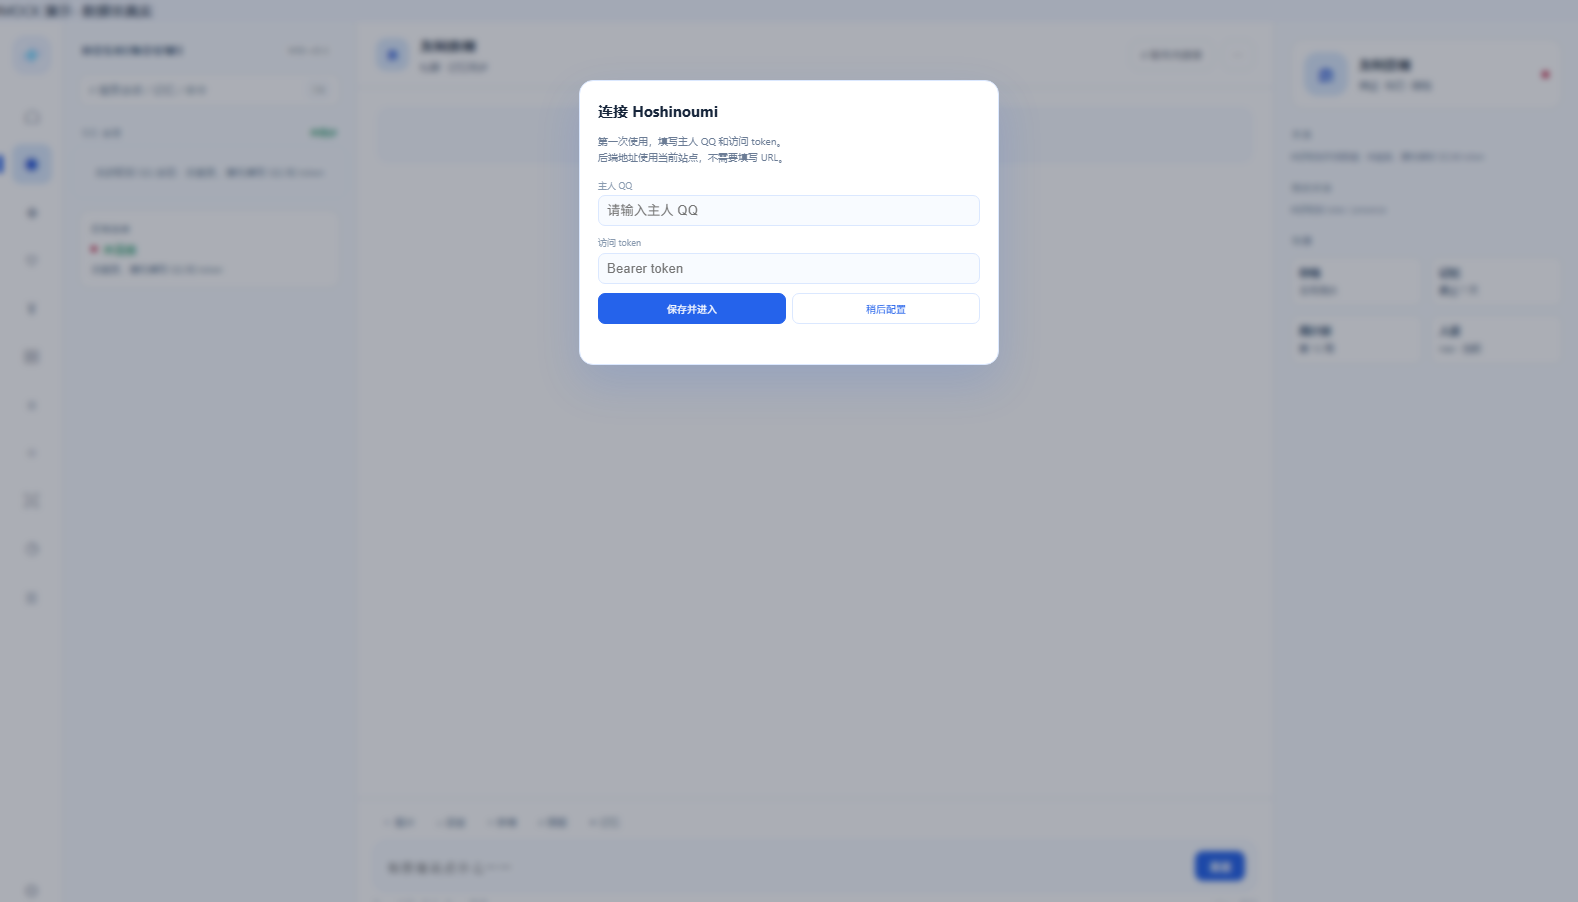
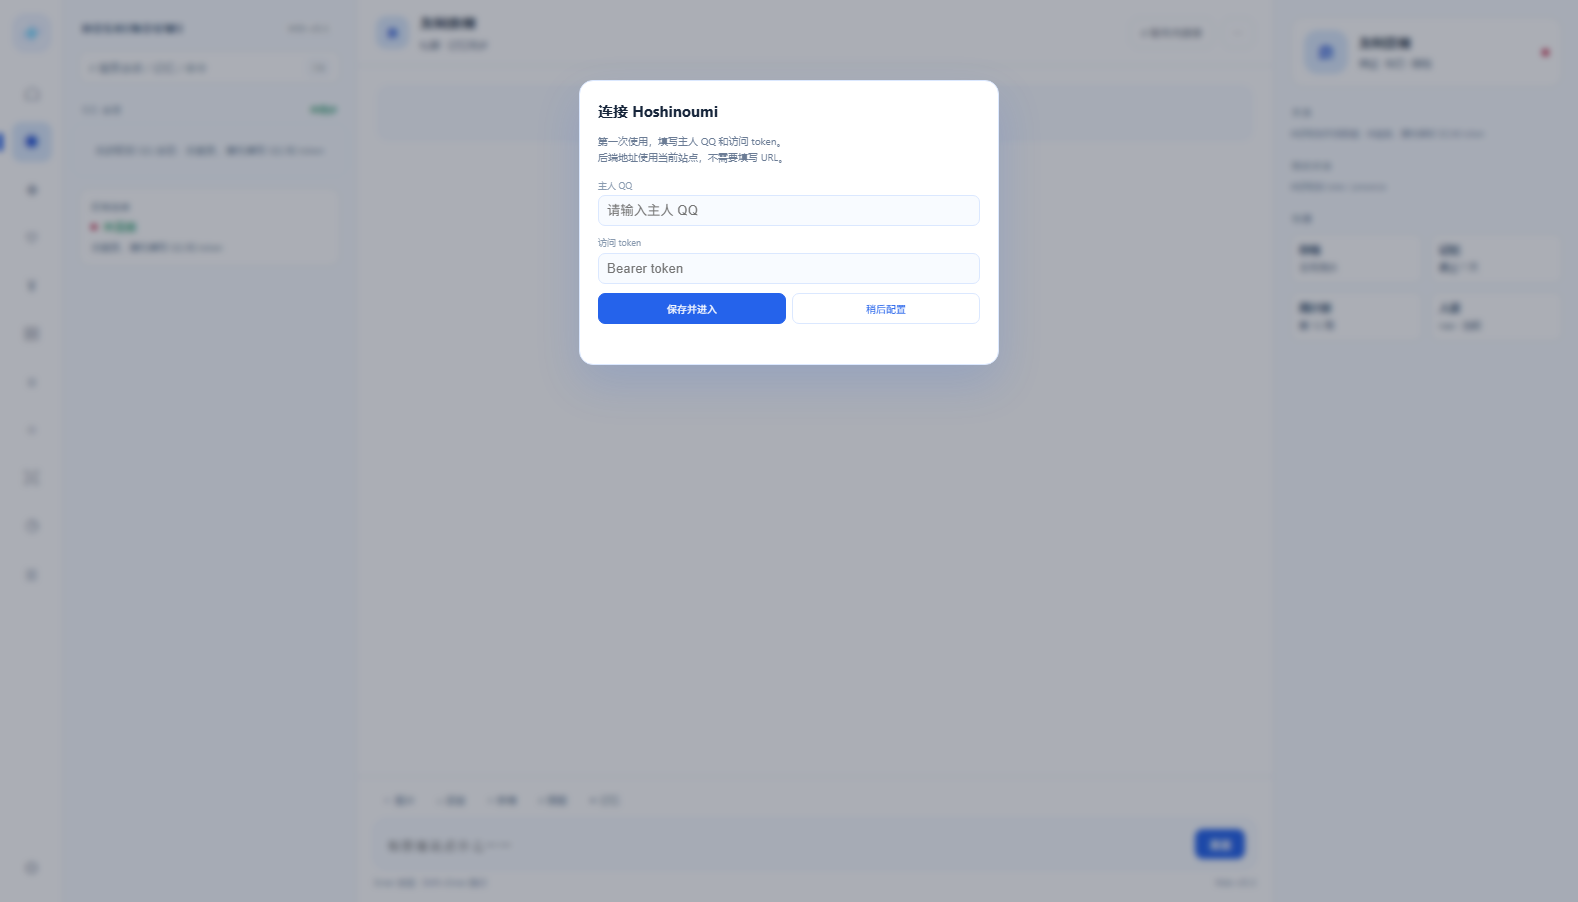
style(v35.5): 删除 MOCK 横幅

diff --git a/integrations/web/src/layouts/AppShell.vue b/integrations/web/src/layouts/AppShell.vue
@@ -9,9 +9,6 @@ const auth = useAuthStore(); const session = useSessionStore()
 onMounted(() => { if (auth.loggedIn) session.refresh(); else session.error = '未登录，请先填写 QQ 和 token' })
 </script>
 <template>
-  <div class="mock">
-    MOCK 演示 · 数据非真实
-  </div>
   <div class="shell">
     <RailNav />
     <ConversationList />
